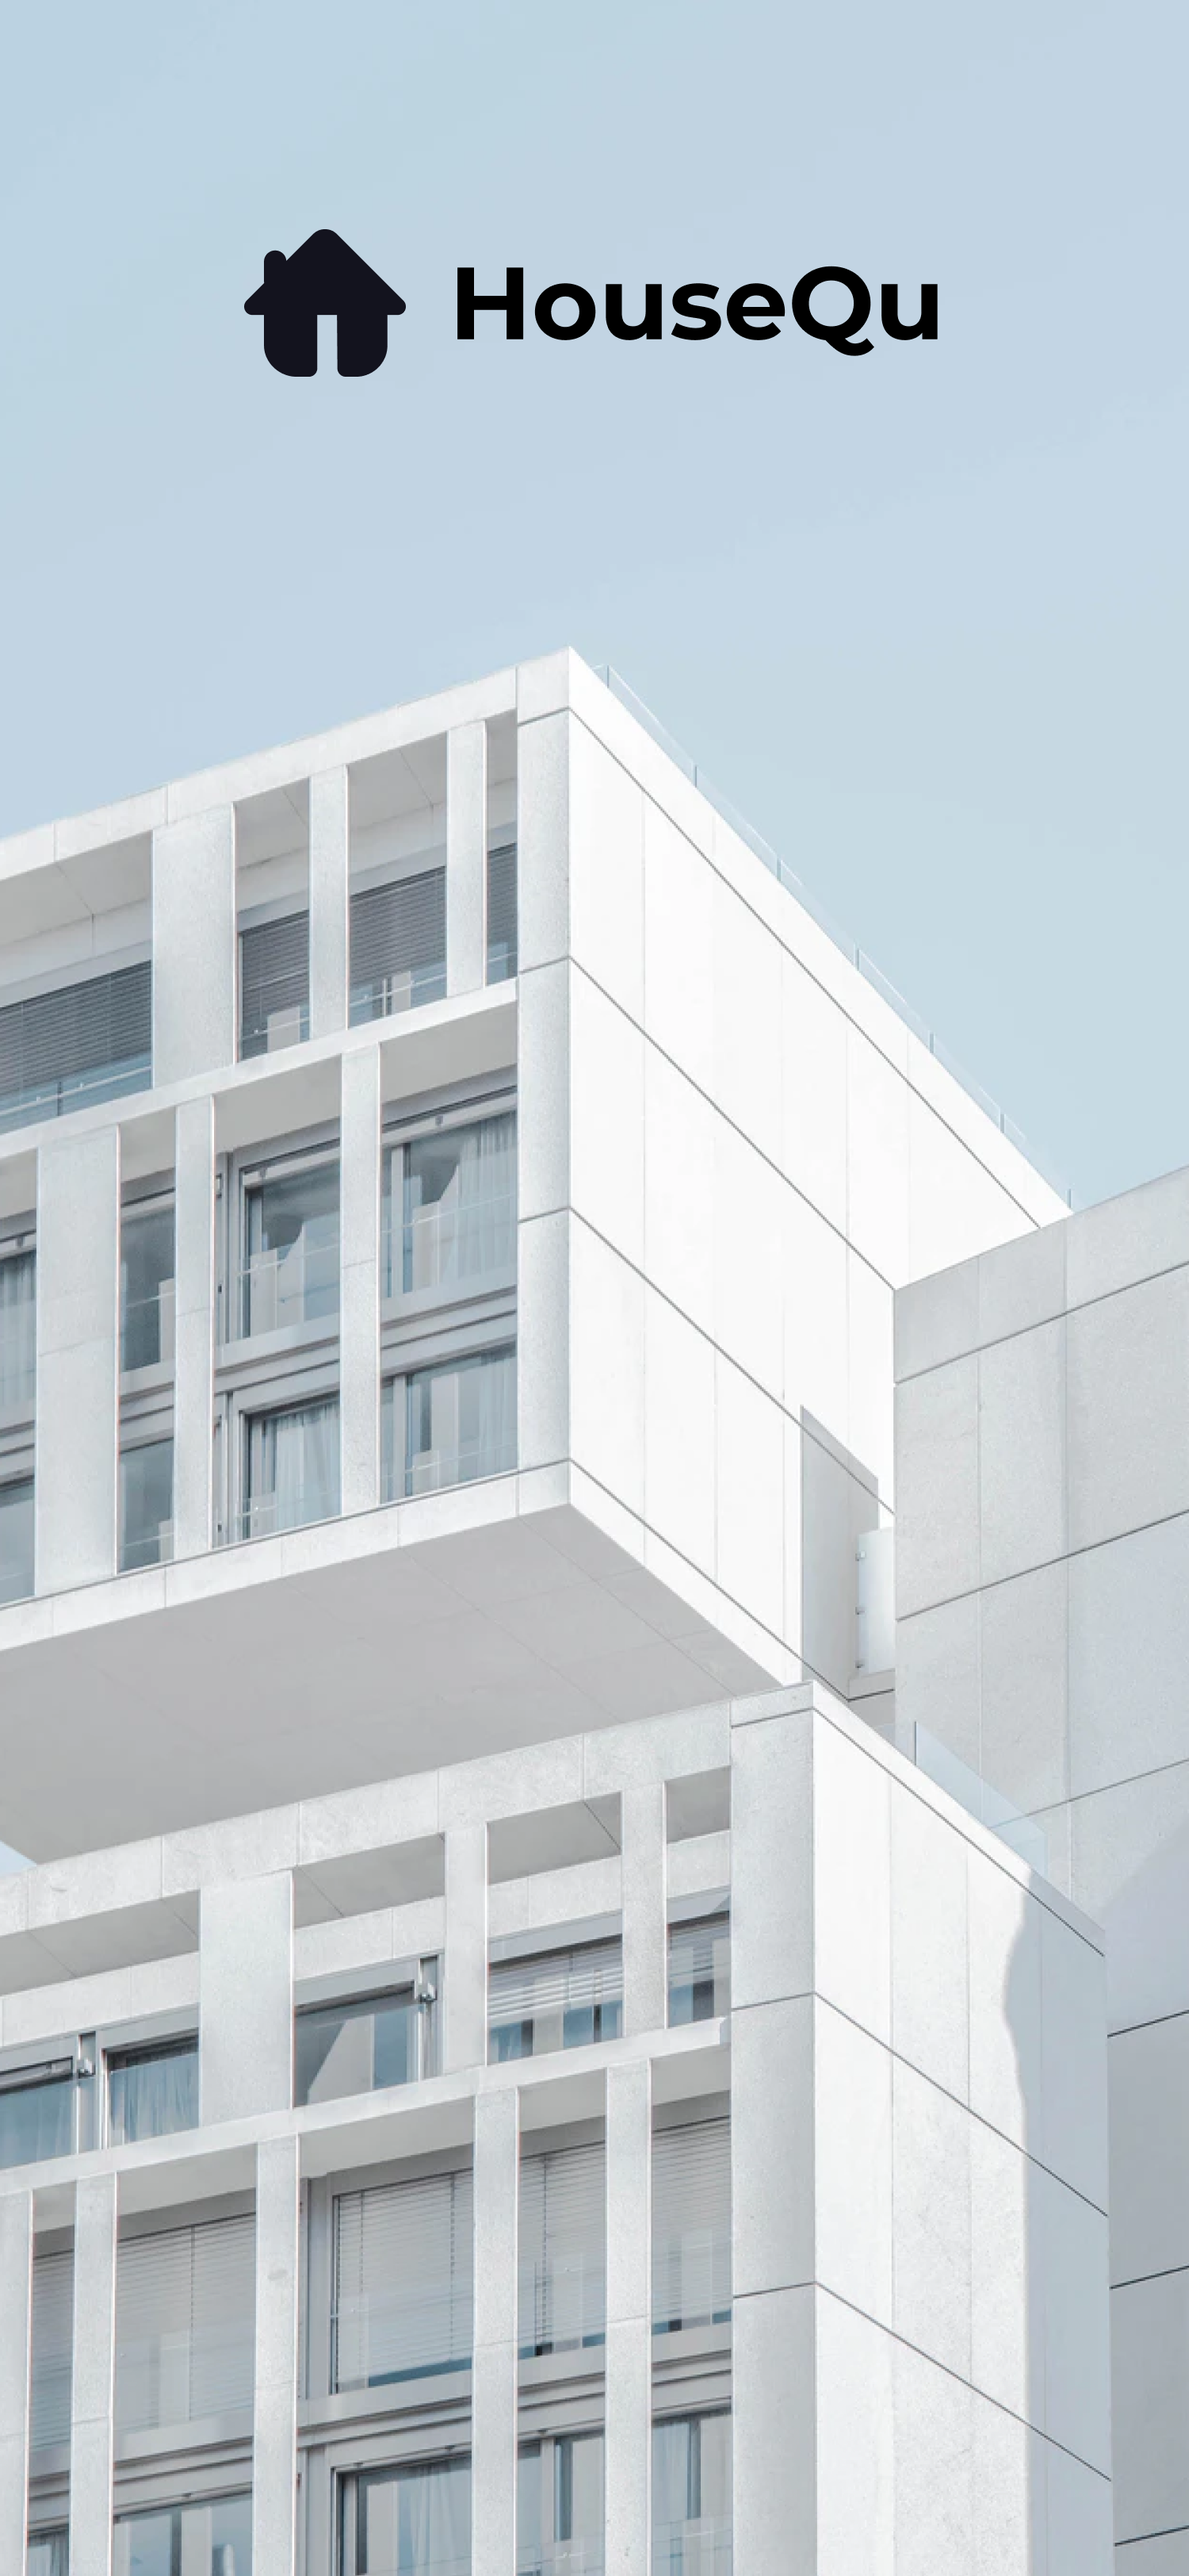
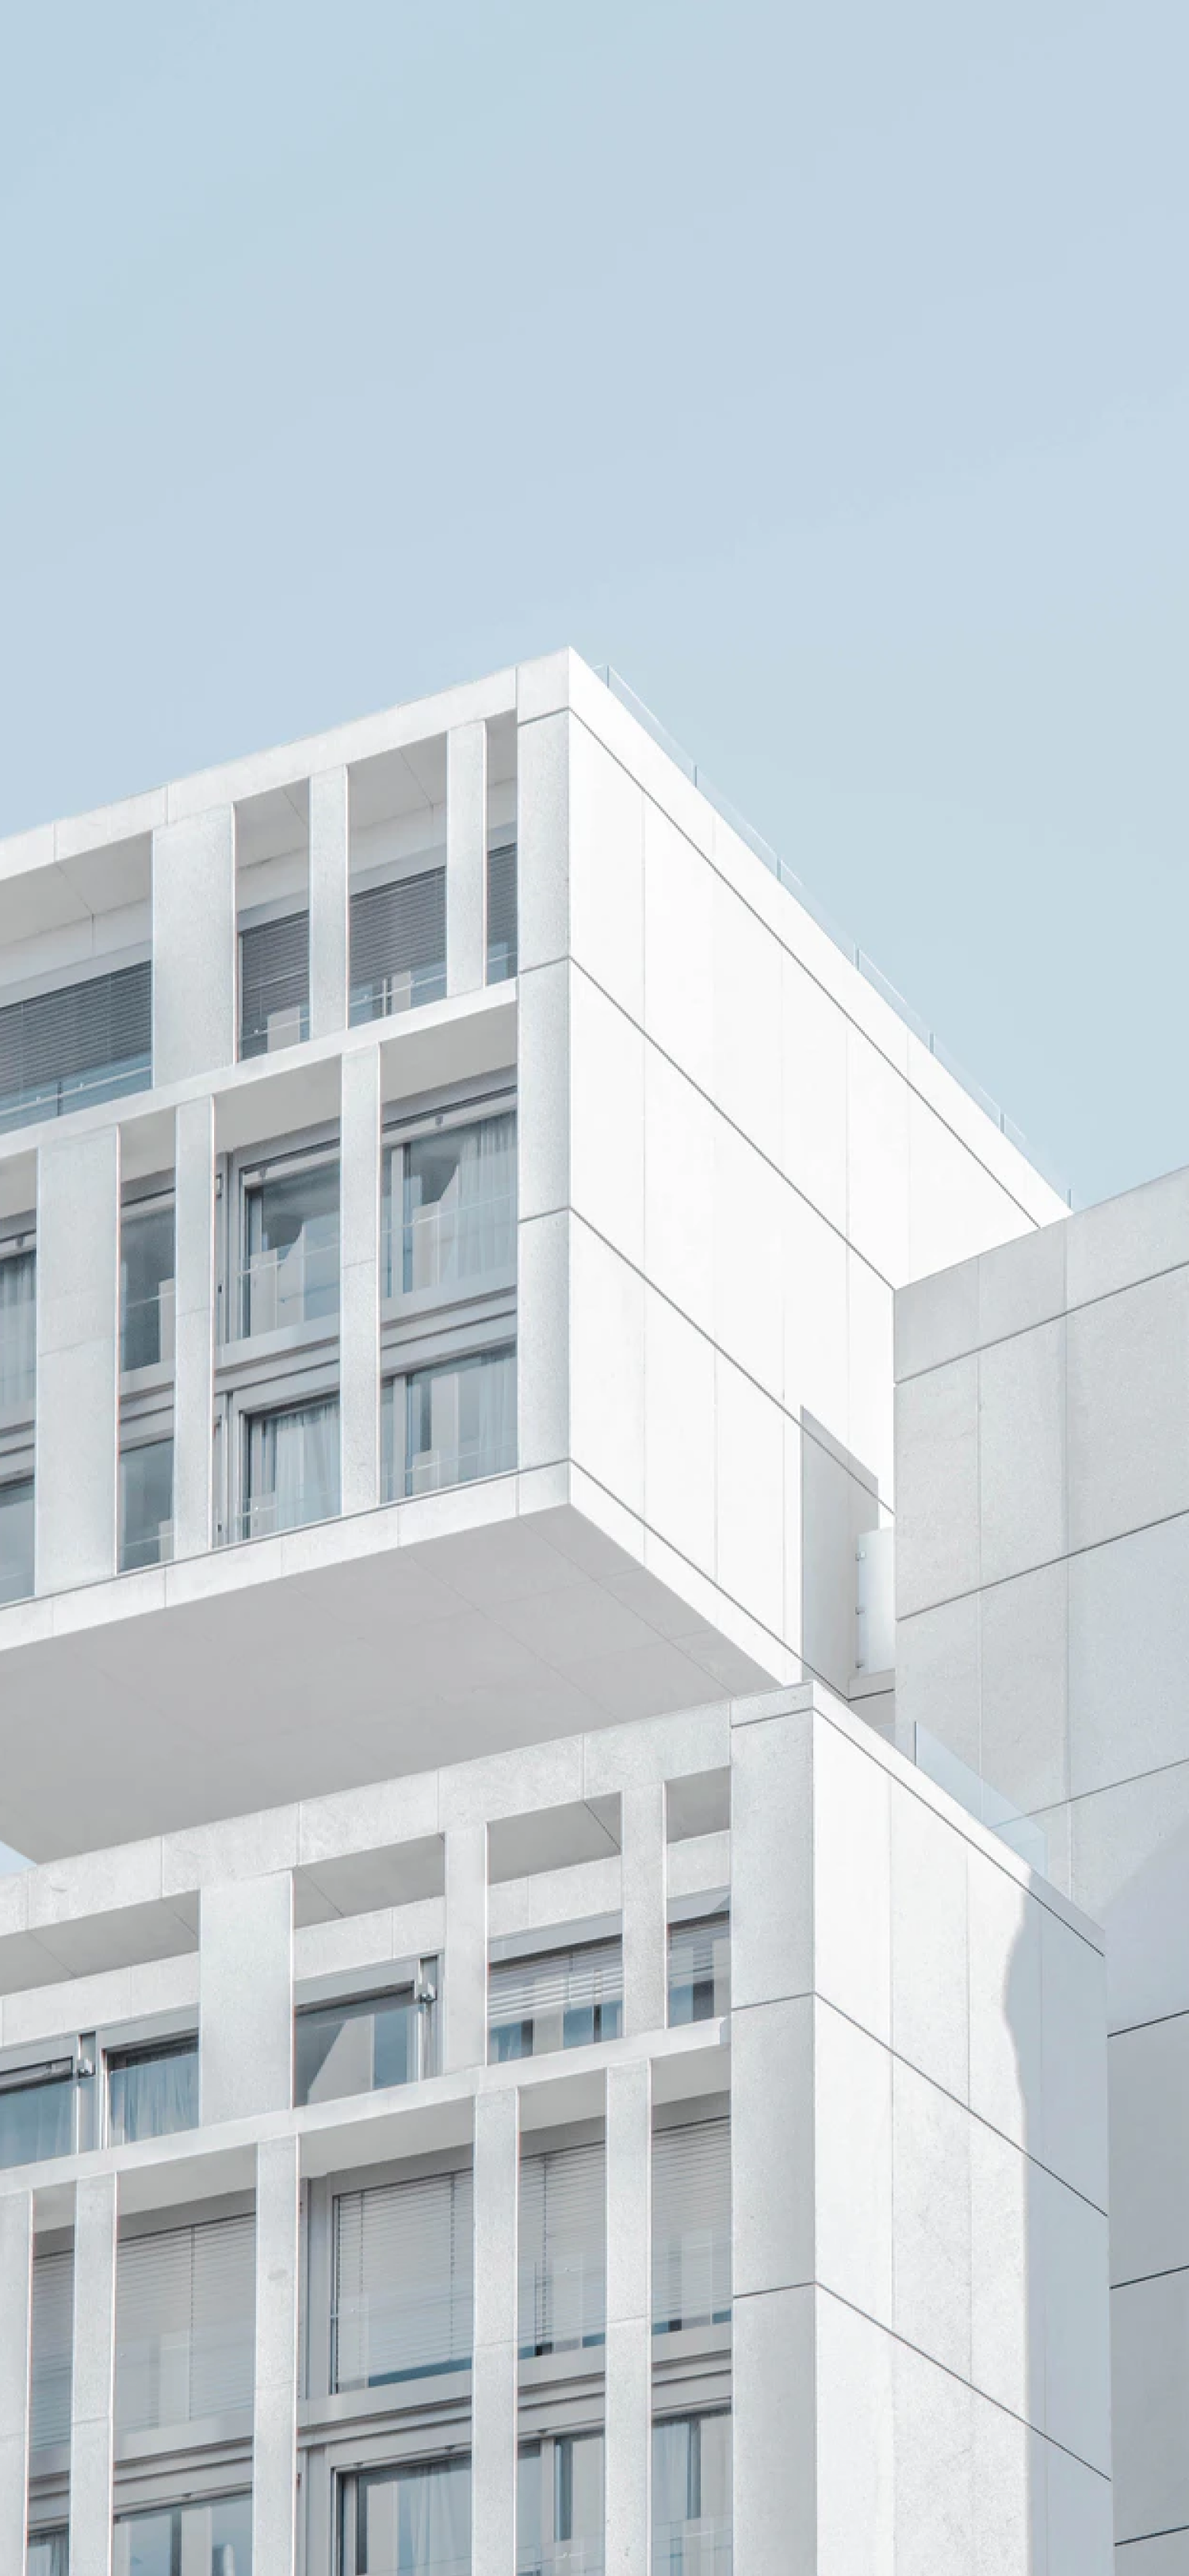
Add new page(second splash & started page). Learn how to make UI button

Changed region(s): [[0.368, 0.0933, 0.7973, 0.1555], [0.2147, 0.0933, 0.3373, 0.1555]]

diff --git a/lib/pages/second_started.dart b/lib/pages/second_started.dart
@@ -1,0 +1,67 @@
+import 'package:flutter/material.dart';
+import 'package:google_fonts/google_fonts.dart';
+
+class SecondStarted extends StatelessWidget {
+  @override
+  Widget build(BuildContext context) {
+    return Scaffold(
+      body: Padding(
+        padding: const EdgeInsets.only(top:40.0, left:40, right: 40),
+        child: Column(
+          crossAxisAlignment: CrossAxisAlignment.start,
+          children: [
+            Text('Healt First.', 
+              style: GoogleFonts.poppins(
+              color: Colors.black,
+              fontWeight: FontWeight.w500,
+              fontSize: 24,
+              ),
+            ),
+            SizedBox(height: 16,),
+            Text('Exercise together with our best community fit in the world',
+            style: GoogleFonts.poppins(
+              color: Color(0xff828284),
+              fontSize: 16,
+            ),),
+            SizedBox(height: 60,),
+            Image.asset(
+              'assets/gallery.png',
+              width:295,
+              height:402,
+            ),
+            SizedBox(height: 71,),
+            Center(
+              child: Container(
+                width: 295,
+                height: 55,
+                color: Color(0xffAFEA0D) ,
+                child: TextButton(onPressed: (){}, 
+                  child: Text(
+                    'Shape My Body',
+                    style: GoogleFonts.lato(
+                      color: Colors.black,
+                      fontWeight: FontWeight.w600,
+                      fontSize: 18,
+                    )
+                  )
+                ),
+              ),
+            ),
+            SizedBox(height: 20,),
+            Center(
+              child: Text(
+                'Terms & Conditions',
+                style: GoogleFonts.poppins(
+                  color: Color(0xff757575),
+                  fontSize: 16,
+                  decoration: TextDecoration.underline,
+                )
+              ),
+            )
+          ],
+        ),
+      ),
+    
+    );
+  }
+}

diff --git a/lib/pages/first_started.dart b/lib/pages/first_started.dart
@@ -1,0 +1,48 @@
+import 'package:flutter/material.dart';
+import 'package:google_fonts/google_fonts.dart';
+
+class FirstStarted extends StatelessWidget{
+  @override
+  Widget build(BuildContext context){
+    return Scaffold(
+      body: Stack(children: [
+        Container(
+          decoration: BoxDecoration(
+            image:DecorationImage(
+              image: AssetImage('assets/background2.png'),
+              fit: BoxFit.cover,
+            ),
+          ),
+        ),
+        Center(heightFactor: 1,
+          child: Padding(
+            padding: const EdgeInsets.only(top:527.0),
+            child: Text('Maximize Revenue', style: GoogleFonts.poppins(
+              color: Color(0xffFFFFFF),
+              fontWeight: FontWeight.w600,
+              fontSize: 24,
+            ),),
+          ),
+          
+        ),
+        Center( heightFactor: 1,
+          child: Padding(
+            padding: const EdgeInsets.only(top:579.0, left:39, right: 36),
+            child: Text('Gain more profit from cryptocurrency without any risk involved',
+            textAlign: TextAlign.center,
+            style: GoogleFonts.poppins(
+              color: Color(0xffFFFFFF),
+              fontSize: 16,
+            ),),
+          ),
+        ),
+        Center(heightFactor: 1,
+          child: Padding(
+            padding: const EdgeInsets.only(top:677.0),
+            child: Image.asset(
+              'assets/button_start.png', width: 80, height: 80,),
+          )),
+      ],)
+    );
+  }
+}

diff --git a/lib/pages/second_splash.dart b/lib/pages/second_splash.dart
@@ -1,0 +1,43 @@
+import 'package:flutter/material.dart';
+import 'package:google_fonts/google_fonts.dart';
+
+class SecondSplash extends StatelessWidget {
+  // This widget is the root of your application.
+  @override
+  Widget build(BuildContext context) {
+    return Scaffold(
+      body: Stack(children: [
+        Container(
+          decoration: BoxDecoration(
+            image: DecorationImage(
+              image: AssetImage('assets/background.png'),
+              fit: BoxFit.cover,
+            ),
+          ),
+        ),
+        Padding(
+          padding: const EdgeInsets.only(top: 77.0, left:77, ),
+          child: Row(
+            children: [
+              Image.asset(
+                'assets/home.png',
+                width: 51,
+                ),
+                Padding(
+                  padding: const EdgeInsets.only(left: 13.6),
+                  child: Text('HouseQu',
+                  style: GoogleFonts.montserrat(
+                    color: Color(0xff000000),
+                    fontWeight: FontWeight.bold,
+                    fontSize:32,
+                  ),
+                  ),
+                )
+            ],
+          ),
+        )
+      ]),
+      
+    );
+  }
+}

diff --git a/lib/main.dart b/lib/main.dart
@@ -1,5 +1,8 @@
 import 'package:flutter/material.dart';
+import 'package:travel_app/pages/first_started.dart';
+import 'package:travel_app/pages/second_splash.dart';
 import 'package:travel_app/pages/first_splash.dart';
+import 'package:travel_app/pages/second_started.dart';
 
 void main() => runApp(TravelApp());
 
@@ -7,7 +10,8 @@ class TravelApp extends StatelessWidget {
   @override
   Widget build(BuildContext context) {
     return MaterialApp(
-      home: FirstSplash(),
+      debugShowCheckedModeBanner: false,
+      home: SecondStarted(),
     );
   }
 }
